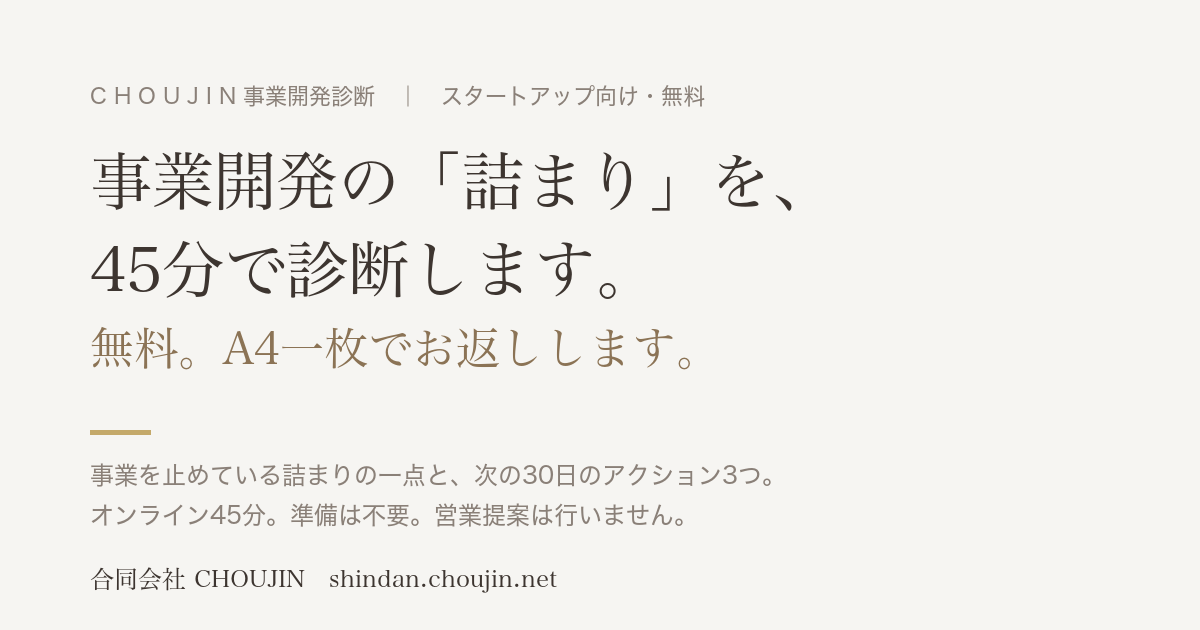
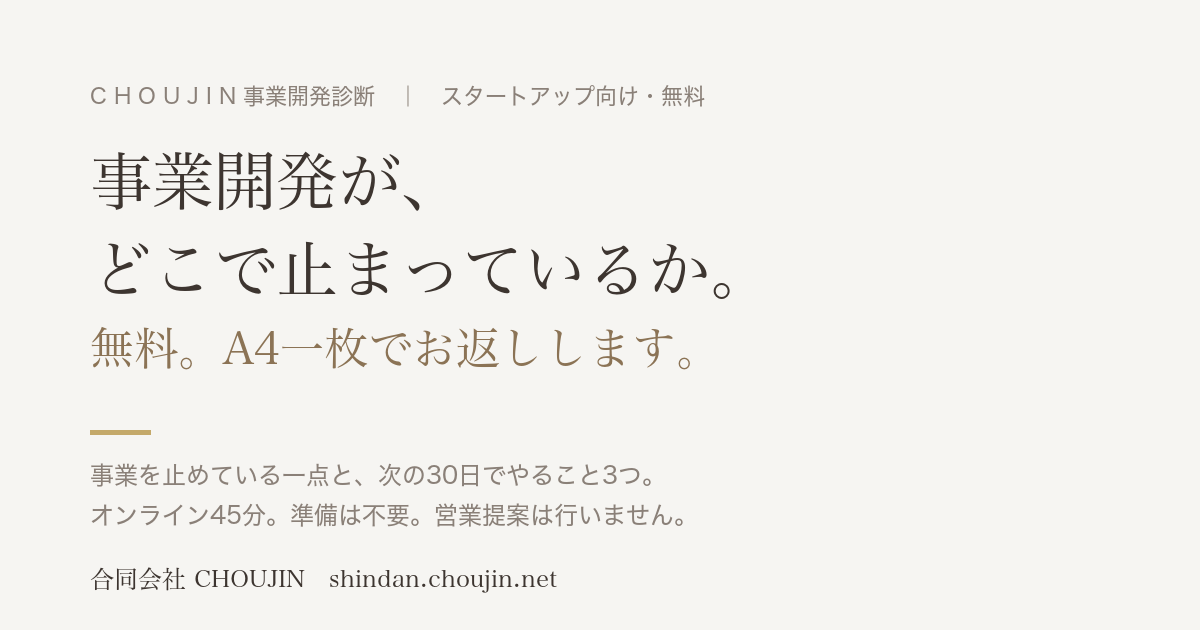
refactor: 6節に再構成。見出しを「事業開発が、どこで止まっているか。」に、「詰まり」を「止めている一点」に統一、45分とA4はヒーローと始め方の2回だけ。シート画像・OGPを再生成、写真は無し

diff --git a/index.html b/index.html
@@ -4,8 +4,8 @@
 <head>
     <meta charset="UTF-8">
     <meta name="viewport" content="width=device-width, initial-scale=1.0">
-    <title>CHOUJIN事業開発診断 — 事業開発の「詰まり」を、45分で診断します。無料。 | 合同会社CHOUJIN</title>
-    <meta name="description" content="スタートアップ向け・無料。事業実装6ステップに沿って現在地を整理し、事業を止めている詰まりの一点と、次の30日で取るべきアクション3つをA4一枚にまとめます。オンライン45分、営業提案は行いません。">
+    <title>CHOUJIN事業開発診断 — 事業開発が、どこで止まっているか。 | 合同会社CHOUJIN</title>
+    <meta name="description" content="スタートアップ向け・無料。オンラインで45分、いまどうやって顧客を探しているかを伺い、事業を止めている一点と次の30日でやること3つをA4一枚にして返します。営業提案はしません。">
 
     <link rel="icon" href="assets/favicon.png" type="image/png">
     <link rel="apple-touch-icon" href="assets/favicon.png">
@@ -14,16 +14,16 @@
 
     <meta property="og:site_name" content="CHOUJIN事業開発診断">
     <meta property="og:locale" content="ja_JP">
-    <meta property="og:title" content="CHOUJIN事業開発診断 — 事業開発の「詰まり」を、45分で診断します。無料。">
-    <meta property="og:description" content="スタートアップ向け・無料。事業を止めている詰まりの一点と、次の30日のアクション3つをA4一枚に。オンライン45分、営業提案は行いません。">
+    <meta property="og:title" content="CHOUJIN事業開発診断 — 事業開発が、どこで止まっているか。">
+    <meta property="og:description" content="スタートアップ向け・無料。45分話して、事業を止めている一点と次の30日でやること3つをA4一枚にして返します。営業提案はしません。">
     <meta property="og:image" content="https://shindan.choujin.net/assets/ogp.png">
     <meta property="og:image:width" content="1200">
     <meta property="og:image:height" content="630">
     <meta property="og:url" content="https://shindan.choujin.net/">
     <meta property="og:type" content="website">
     <meta name="twitter:card" content="summary_large_image">
-    <meta name="twitter:title" content="CHOUJIN事業開発診断 — 事業開発の「詰まり」を、45分で診断します。無料。">
-    <meta name="twitter:description" content="スタートアップ向け・無料。事業を止めている詰まりの一点と、次の30日のアクション3つをA4一枚に。オンライン45分、営業提案は行いません。">
+    <meta name="twitter:title" content="CHOUJIN事業開発診断 — 事業開発が、どこで止まっているか。">
+    <meta name="twitter:description" content="スタートアップ向け・無料。45分話して、事業を止めている一点と次の30日でやること3つをA4一枚にして返します。営業提案はしません。">
     <meta name="twitter:image" content="https://shindan.choujin.net/assets/ogp.png">
 
     <!-- Google Analytics（GA4のプロパティを作成後、IDを差し替える） -->
@@ -56,15 +56,15 @@
           "areaServed": "JP",
           "audience": { "@type": "Audience", "audienceType": "スタートアップ・新規事業部門" },
           "offers": { "@type": "Offer", "price": "0", "priceCurrency": "JPY" },
-          "description": "スタートアップ向けの無料診断。事業実装6ステップに沿って現在地を整理し、事業を止めている詰まりの一点と、次の30日で取るべきアクション3つをA4一枚にまとめる。オンライン45分。"
+          "description": "スタートアップ向けの無料診断。事業実装6ステップに沿って、事業がどこで止まっているかを見て、止めている一点と次の30日でやること3つをA4一枚にまとめる。"
         },
         {
           "@type": "FAQPage",
           "mainEntity": [
             { "@type": "Question", "name": "本当に無料ですか？", "acceptedAnswer": { "@type": "Answer", "text": "無料です。あとから請求することも、診断を入口に営業提案をすることもありません。" } },
             { "@type": "Question", "name": "まだ売上がない段階でも相談できますか？", "acceptedAnswer": { "@type": "Answer", "text": "はい。顧客課題の探索中、プロダクト開発中、営業開始前でも構いません。" } },
-            { "@type": "Question", "name": "診断シートはVCにも共有されますか？", "acceptedAnswer": { "@type": "Answer", "text": "VC・CVCからのご紹介で申し込まれた場合は、同じA4一枚をご紹介元にもお送りします。話し始める前に必ずお伝えします。ご自身で申し込まれた場合は、ご本人以外にはお渡ししません。" } },
-            { "@type": "Question", "name": "診断後の実行も依頼できますか？", "acceptedAnswer": { "@type": "Answer", "text": "ご希望がある場合は、顧客ヒアリング、仮説検証、顧客開拓などの実行支援も可能です。無料診断後に、こちらから営業提案を行うことはありません。" } }
+            { "@type": "Question", "name": "シートはVCにも共有されますか？", "acceptedAnswer": { "@type": "Answer", "text": "VC・CVCからのご紹介で申し込まれた場合は、同じ一枚をご紹介元にもお送りします。話し始める前に必ずお伝えします。ご自身で申し込まれた場合は、ご本人以外にはお渡ししません。" } },
+            { "@type": "Question", "name": "診断後の実行も依頼できますか？", "acceptedAnswer": { "@type": "Answer", "text": "ご希望がある場合は、顧客ヒアリング、仮説検証、顧客開拓などの実行支援も可能です。診断後に、こちらから営業提案を行うことはありません。" } }
           ]
         }
       ]
@@ -73,15 +73,15 @@
 </head>
 
 <body>
-    <a class="skip-link" href="#sheet">本文へ移動</a>
+    <a class="skip-link" href="#fit">本文へ移動</a>
 
     <header class="site-header" id="site-header">
         <div class="container header-inner">
             <a href="#hero" class="header-logo">CHOUJIN事業開発診断</a>
             <nav class="header-nav" id="header-nav">
-                <a href="#sheet" class="nav-link">もらえるもの</a>
+                <a href="#fit" class="nav-link">こんなときに</a>
                 <a href="#steps" class="nav-link">見る順番</a>
-                <a href="#about" class="nav-link">CHOUJINについて</a>
+                <a href="#letter" class="nav-link">なぜ無料か</a>
                 <a href="#faq" class="nav-link">よくある質問</a>
                 <a href="#form-section" class="nav-link nav-cta">無料診断を申し込む</a>
             </nav>
@@ -89,43 +89,28 @@
         </div>
     </header>
 
-    <!-- Hero -->
+    <!-- 1. Hero -->
     <section class="hero" id="hero">
         <div class="container container-wide hero-grid">
             <div class="hero-content">
                 <p class="hero-label"><span>スタートアップ向け</span><span aria-hidden="true">｜</span><span>無料</span></p>
-                <h1 class="hero-title">事業開発の<span class="nowrap">「詰まり」</span>を、<br>45分で診断します。</h1>
-                <p class="hero-sub">オンラインで45分、いまどうやって顧客を探しているかを伺います。事業を止めている一点と、次の30日でやること3つを、A4一枚にしてお返しします。</p>
+                <h1 class="hero-title">事業開発が、<br>どこで止まっているか。</h1>
+                <p class="hero-sub">オンラインで45分、いまどうやって顧客を探しているかを伺います。事業を止めている一点と、次の30日でやること3つを、A4一枚にして返します。</p>
                 <div class="hero-cta">
                     <a href="#form-section" class="btn btn-primary btn-large">無料診断を申し込む</a>
-                    <span class="hero-cta-note">資料の作成は不要｜営業提案は行いません｜秘密保持対応</span>
+                    <span class="hero-cta-note">資料の作成は不要｜営業提案はしません｜秘密保持対応</span>
                 </div>
             </div>
             <figure class="hero-sheet">
                 <a href="assets/sheet-sample@2x.jpg" target="_blank" rel="noopener" class="sheet-link" aria-label="診断シートの記入例を拡大表示">
-                    <img src="assets/sheet-sample.jpg" srcset="assets/sheet-sample.jpg 600w, assets/sheet-sample@2x.jpg 1200w" sizes="(max-width: 900px) 90vw, 440px" width="600" height="849" alt="事業開発診断シートの記入例。見立て、6ステップの現在地、詰まりの一点、次の30日でやること3つが書かれたA4一枚" loading="eager">
+                    <img src="assets/sheet-sample.jpg" srcset="assets/sheet-sample.jpg 600w, assets/sheet-sample@2x.jpg 1200w" sizes="(max-width: 900px) 90vw, 440px" width="600" height="849" alt="事業開発診断シートの記入例。見立て、6ステップの現在地、止めている一点、次の30日でやること3つが書かれた一枚" loading="eager">
                 </a>
-                <figcaption>お送りするA4一枚の記入例（架空の会社）。クリックで拡大。</figcaption>
+                <figcaption>お返しする一枚の記入例（架空の会社）。クリックで拡大。</figcaption>
             </figure>
         </div>
     </section>
 
-    <!-- A4に書いてあること -->
-    <section class="sheet-section" id="sheet">
-        <div class="container">
-            <h2 class="h2">A4一枚に書いてあるのは、これだけです</h2>
-            <dl class="plain-list">
-                <div><dt>見立て</dt><dd>何が起きているかを、3行で。最初に書きます。</dd></div>
-                <div><dt>現在地</dt><dd>事業実装6ステップのどこにいるか。「いまここ」と「詰まり」の印を2つ。点数はつけません。</dd></div>
-                <div><dt>詰まりの一点</dt><dd>事業を止めているところを一つに絞って、顧客の言葉と数字で根拠を3つ。</dd></div>
-                <div><dt>次の30日</dt><dd>やること3つ。「誰に会いに行くか」と「終わった状態」まで。</dd></div>
-                <div><dt>今はやらないこと</dt><dd>2つ。やめることで前に進む場合の方が多いので。</dd></div>
-            </dl>
-            <p class="note">長い報告書は作りません。翌朝やることが決まる一枚だけです。</p>
-        </div>
-    </section>
-
-    <!-- こんなとき -->
+    <!-- 2. こんなときに -->
     <section class="fit" id="fit">
         <div class="container">
             <h2 class="h2">こんな「進まない」のときに</h2>
@@ -137,16 +122,16 @@
                 <li>顧客ごとに提案が変わり、勝ち筋が見えない</li>
                 <li>「市場がまだ追いついていない」と言っているが、具体的な顧客の声を思い出せない</li>
             </ul>
-            <p>事業が進まない原因は、営業とは限りません。商談が増えないのは会っている部署が違うから、PoCで止まるのは費用を出す人に会えていないから、ということがよくあります。だから最初に「どこで止まっているか」だけを見ます。</p>
+            <p>進まない原因は、営業とは限りません。商談が増えないのは会っている部署が違うから、PoCで止まるのは費用を出す人に会えていないから、ということがよくあります。だから最初に「どこで止まっているか」だけを見ます。技術やプロダクトの良し悪しを評価する場ではありません。</p>
             <p class="note">見ないもの：財務・資金調達・法務・知財・人事制度・技術開発そのもの。見るのは、顧客起点で事業を市場に出し、検証し、売上につなげる領域だけです。</p>
         </div>
     </section>
 
-    <!-- 見る順番 -->
+    <!-- 3. 見る順番 -->
     <section class="steps-section" id="steps">
         <div class="container">
             <h2 class="h2">見る順番　—　事業実装の6ステップ</h2>
-            <p>このページのために作った評価軸ではなく、CHOUJINが自分たちの事業開発で使っている型です。45分はこの順に伺って、詰まりが見えたら残りの時間はそこの事実確認に使います。</p>
+            <p>このページのために作った評価軸ではなく、CHOUJINが自分たちの事業開発で使っている型です。この順に伺って、止まっている場所が見えたら、残りの時間はそこの事実確認に使います。</p>
             <table class="steps-table">
                 <tbody>
                     <tr><th>① 全体を掴む</th><td>業界の成り立ち、商流、予算、導入に関わる意思決定者を把握できているか</td></tr>
@@ -157,60 +142,45 @@
                     <tr><th>⑥ 拡販する</th><td>特定の個人に依存せず、組織で同じ動きと判断を再現できるか</td></tr>
                 </tbody>
             </table>
-            <p class="note">止まる場所は、ほとんどが②か③です。①を飛ばしたまま作り込んだ結果、そうなります。</p>
+            <p class="note">止まる場所は、ほとんどが②か③です。①を飛ばしたまま作り込んだ結果、そうなります。点数はつけません。</p>
         </div>
     </section>
 
-    <!-- 嘉山から -->
+    <!-- 4. なぜ無料か（嘉山から） -->
     <section class="letter-section" id="letter">
         <div class="container">
             <div class="letter">
                 <p class="letter-from">なぜ無料か、先に書いておきます。</p>
                 <p>ディープテックの会社と仕事をしていて、いちばん多いのが「技術はいい、お金も入った、でも顧客が増えない」です。話を聞くと、できていないことは山ほど出てきます。ただ、それは本人が一番分かっていて、利害のない外の人間に一度しゃべると整理がつく、というだけのことが多い。</p>
-                <p>私たちは、事業開発がどこで止まるのかを、一社ずつ聞いて溜めたいと思っています。それが自分たちの仕事の精度を上げるので、この45分は無料でいい。</p>
-                <p>だから、この診断から営業はしません。手伝ってほしいと思ったときだけ、連絡をください。</p>
+                <p>私たちは、事業開発がどこで止まるのかを、一社ずつ聞いて溜めたいと思っています。それが自分たちの仕事の精度を上げるので、この診断は無料でいい。だから、ここから営業はしません。手伝ってほしいと思ったときだけ、連絡をください。</p>
+                <p>CHOUJINは事業開発が本業の会社です。資料の中で戦略を作るのではなく、自分たちで電話をかけ、商談に出て、顧客をつくる側にいます。遺伝子検査のサービスでは、導入実績のなかった健康保険組合の市場に約400件アプローチして約150件の商談を作り、40社に入りました。技術の良し悪しではなく、当たる先の選び方と回数で決まった案件です。ほかに、宇宙×半導体の産業ヒアリング（大手企業40社）、医療機器や電力センシング技術の事業開発、製造業向け新規事業の営業組織の立ち上げなど。社名は伏せています。</p>
                 <p class="letter-sign">合同会社CHOUJIN　代表　嘉山洋輔</p>
+                <p class="note">※合同会社CHOUJIN設立（2024年10月）前の、代表およびメンバーによる支援実績を含みます。</p>
+                <p><a href="https://choujin.net" target="_blank" rel="noopener noreferrer" class="btn btn-ghost">CHOUJINのサイトを見る</a></p>
             </div>
         </div>
     </section>
 
-    <!-- CHOUJINについて -->
-    <section class="about" id="about">
-        <div class="container container-wide">
-            <figure class="photo-band">
-                <img src="assets/photo-band.jpg" alt="" width="1600" height="700" loading="lazy" aria-hidden="true">
-            </figure>
-        </div>
-        <div class="container">
-            <h2 class="h2">CHOUJINについて</h2>
-            <p>合同会社CHOUJIN。事業開発が本業の会社です。資料の中で戦略を作るのではなく、自分たちで電話をかけ、商談に出て、顧客をつくる側にいます。</p>
-            <p>遺伝子検査のサービスでは、導入実績のなかった健康保険組合の市場に約400件アプローチして約150件の商談を作り、40社に入りました。技術の良し悪しではなく、当たる先の選び方と回数で決まった案件です。ほかに、宇宙×半導体の産業ヒアリング（大手企業40社）、医療機器や電力センシング技術の事業開発、製造業向け新規事業の営業組織立ち上げ、地方銀行130行超を対象にした宇宙産業のニーズ調査など。社名は伏せています。</p>
-            <p>診断を担当するのは代表の嘉山洋輔、または事業開発を本業とするメンバーです。研究者出身の経営者の方に営業の話をするのは気が引ける、という声をよく聞きますが、顧客に会う作業は技術と同じで、型と回数の問題です。</p>
-            <p class="note">※合同会社CHOUJIN設立（2024年10月）前の、代表およびメンバーによる支援実績を含みます。</p>
-            <p><a href="https://choujin.net" target="_blank" rel="noopener noreferrer" class="btn btn-ghost">CHOUJINのサイトを見る</a></p>
-        </div>
-    </section>
-
-    <!-- 流れ・VC -->
+    <!-- 5. 始め方 -->
     <section class="flow-section" id="flow">
         <div class="container">
-            <h2 class="h2">申し込みから、A4一枚まで</h2>
+            <h2 class="h2">始め方</h2>
             <ol class="flow-list">
                 <li><b>フォームを送る。</b>連絡先のほかに「事業を一言で」「直近3ヶ月の数字」「いま一番止まっていること」の3つだけ。資料を新しく作る必要はありません。</li>
                 <li><b>日程を決める。</b>1〜2営業日以内にこちらから候補をお送りします。</li>
-                <li><b>オンラインで45分、話す。</b>カメラ不要。終わりに仮の見立てをその場でお伝えします。</li>
+                <li><b>オンラインで45分、話す。</b>カメラは不要。終わりに仮の見立てをその場でお伝えします。</li>
                 <li><b>3営業日以内に、A4一枚をお送りする。</b>これで終わりです。その後こちらから連絡することはありません。</li>
             </ol>
 
             <div class="vc-box" id="for-vc">
                 <h3 class="h3">VC・CVCの方へ</h3>
-                <p>出資先にご紹介ください。紹介文はいりません。このURLを転送するだけで始まります。ご紹介で申し込まれた場合は、A4一枚を出資先ご本人とご紹介元の両方にお送りします（本人には事前にお伝えします）。同席は任意です。受け入れは週2社までです。</p>
-                <p class="copy-text">事業開発の現在地を45分で診断してくれる無料のサービスがあります。営業はされないので、一度受けてみてください。<br>https://shindan.choujin.net/</p>
+                <p>出資先にご紹介ください。紹介文はいりません。このURLを転送するだけで始まります。ご紹介で申し込まれた場合は、同じ一枚を出資先ご本人とご紹介元の両方にお送りします（本人には事前にお伝えします）。同席は任意です。受け入れは週2社までです。</p>
+                <p class="copy-text">事業開発がどこで止まっているかを、無料で見てくれるサービスがあります。営業はされないので、一度受けてみてください。<br>https://shindan.choujin.net/</p>
             </div>
         </div>
     </section>
 
-    <!-- FAQ -->
+    <!-- 6. FAQ -->
     <section class="faq" id="faq">
         <div class="container">
             <h2 class="h2">よくある質問</h2>
@@ -219,10 +189,9 @@
                 <div class="faq-item"><button class="faq-question" aria-expanded="false"><span>まだ売上がない段階でも相談できますか？</span><div class="icon"></div></button><div class="faq-answer"><p>はい。顧客課題の探索中、プロダクト開発中、営業開始前でも構いません。フェーズに応じて、次に確認すべきことを整理します。</p></div></div>
                 <div class="faq-item"><button class="faq-question" aria-expanded="false"><span>どんな業界が対象ですか？</span><div class="icon"></div></button><div class="faq-answer"><p>業界は限定していません。特にBtoB、ディープテック、ヘルスケア、AI、製造業、素材、エネルギー、宇宙など、専門性が高く、顧客や売り方を探索している事業を得意としています。大企業の新規事業部門からのご相談も受けています。</p></div></div>
                 <div class="faq-item"><button class="faq-question" aria-expanded="false"><span>誰が話を聞くのですか？</span><div class="icon"></div></button><div class="faq-answer"><p>合同会社CHOUJIN代表の嘉山洋輔、または事業開発を本業とするメンバーが対応します。</p></div></div>
-                <div class="faq-item"><button class="faq-question" aria-expanded="false"><span>事前に準備するものはありますか？</span><div class="icon"></div></button><div class="faq-answer"><p>資料を新しく作る必要はありません。申込フォームで「事業を一言で」「直近3ヶ月の数字」「いま一番止まっていること」の3つを書いていただければ十分です。既存の事業資料があればURLを添えてください（任意）。</p></div></div>
-                <div class="faq-item"><button class="faq-question" aria-expanded="false"><span>診断シートはVCにも共有されますか？</span><div class="icon"></div></button><div class="faq-answer"><p>VC・CVCからのご紹介で申し込まれた場合は、同じA4一枚をご紹介元にもお送りします。話し始める前に必ずお伝えします。書くのは「現在地・詰まり・次の30日」だけで、点数はつけません。ご自身で申し込まれた場合は、ご本人以外にはお渡ししません。</p></div></div>
+                <div class="faq-item"><button class="faq-question" aria-expanded="false"><span>シートはVCにも共有されますか？</span><div class="icon"></div></button><div class="faq-answer"><p>VC・CVCからのご紹介で申し込まれた場合は、同じ一枚をご紹介元にもお送りします。話し始める前に必ずお伝えします。書くのは「現在地・止めている一点・次の30日」だけで、点数はつけません。ご自身で申し込まれた場合は、ご本人以外にはお渡ししません。</p></div></div>
                 <div class="faq-item"><button class="faq-question" aria-expanded="false"><span>話した内容の機密は守られますか？</span><div class="icon"></div></button><div class="faq-answer"><p>伺った内容は、ご本人（ご紹介の場合はご紹介元を含む）以外には出しません。業界横断の傾向として使う場合も、社名や個社が特定できる形にはしません。NDAの締結をご希望の場合は対応します。</p></div></div>
-                <div class="faq-item"><button class="faq-question" aria-expanded="false"><span>診断後の実行も依頼できますか？</span><div class="icon"></div></button><div class="faq-answer"><p>ご希望がある場合は、顧客ヒアリング、仮説検証、顧客開拓などの実行支援も可能です。無料診断後に、こちらから営業提案を行うことはありません。</p></div></div>
+                <div class="faq-item"><button class="faq-question" aria-expanded="false"><span>診断後の実行も依頼できますか？</span><div class="icon"></div></button><div class="faq-answer"><p>ご希望がある場合は、顧客ヒアリング、仮説検証、顧客開拓などの実行支援も可能です。診断後に、こちらから営業提案を行うことはありません。</p></div></div>
                 <div class="faq-item"><button class="faq-question" aria-expanded="false"><span>何社まで受けてもらえますか？</span><div class="icon"></div></button><div class="faq-answer"><p>受け入れは週2社までとさせていただいています。お申し込みが重なった場合は、順番に日程をご案内します。</p></div></div>
             </div>
         </div>
